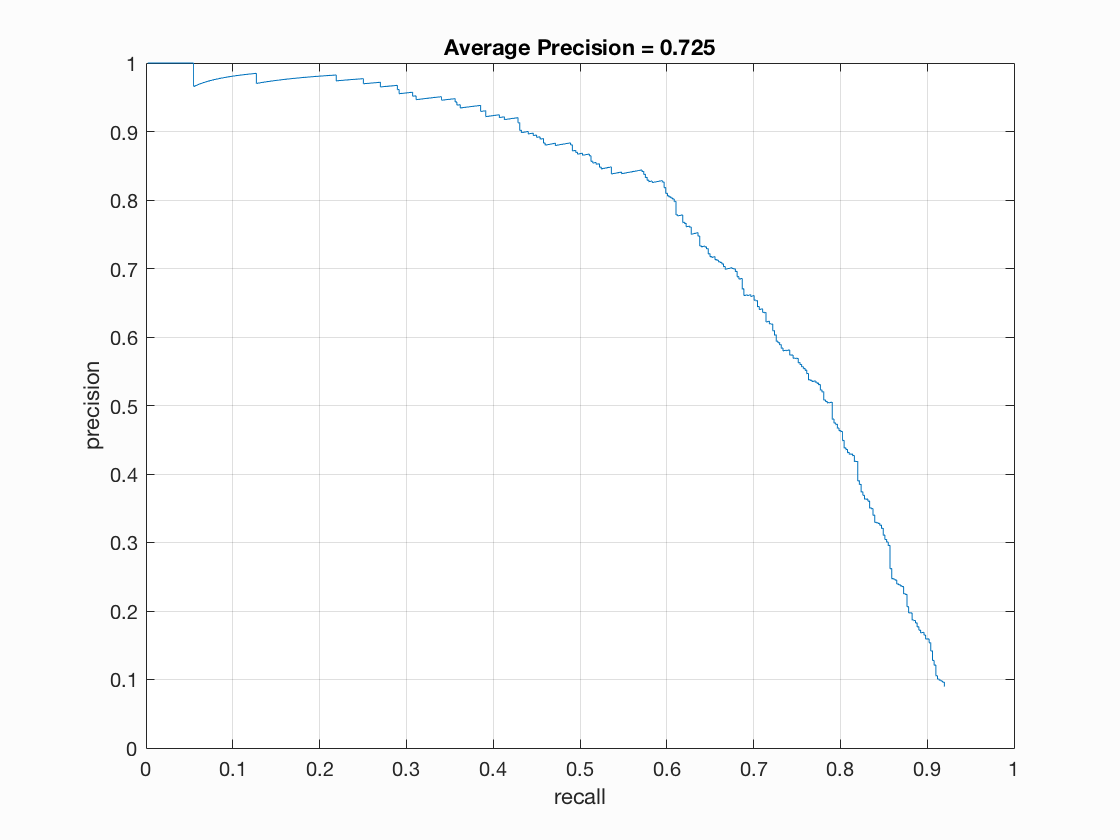
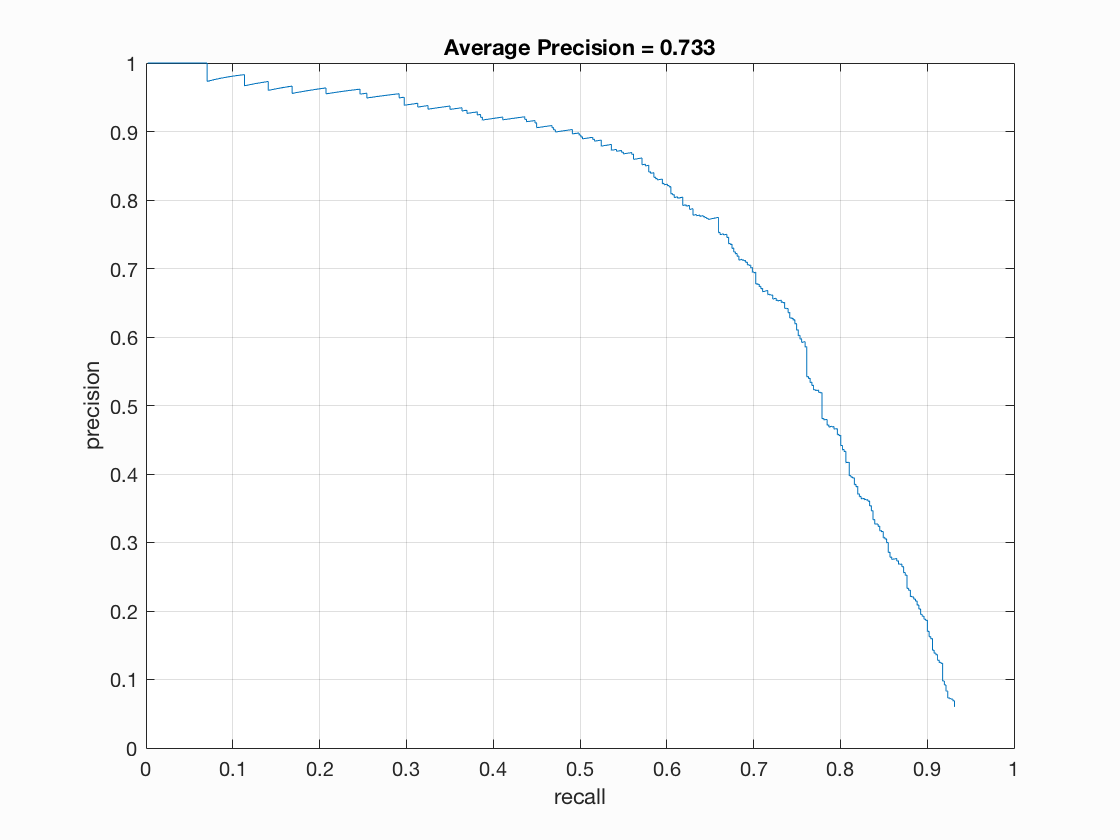
change the threshold on scores to 0.75 give a bit improvement, average percision = 0.733

diff --git a/code/run_detector.m b/code/run_detector.m
@@ -51,7 +51,7 @@ temp_size = feature_params.template_size;
 temp_cells = temp_size / cell_size;
 D_temp_dimension = (temp_cells)^2 * 31;
 
-score_threshold = 0.9;
+score_threshold = 0.75;
 scales = [1, 0.9, 0.75, 0.6, 0.5, 0.4, 0.25, 0.1];
 
 for i = 1:length(test_scenes)
